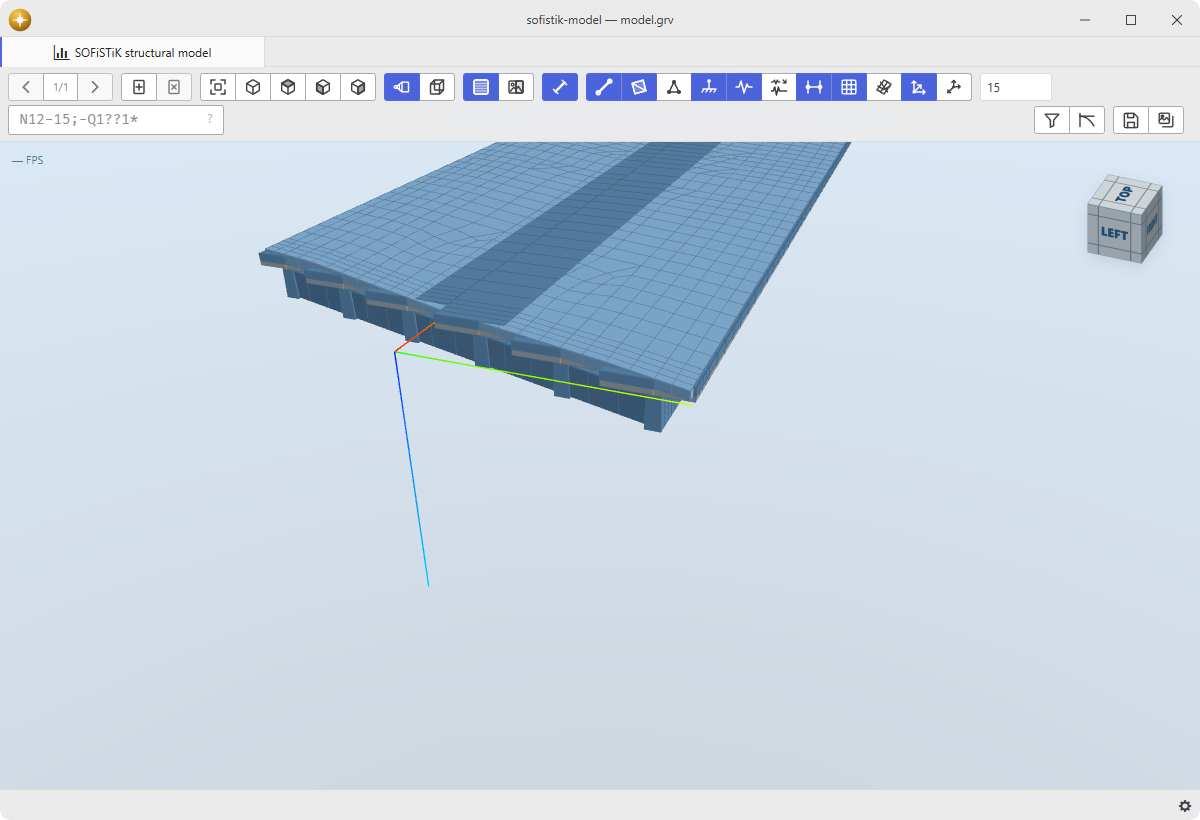
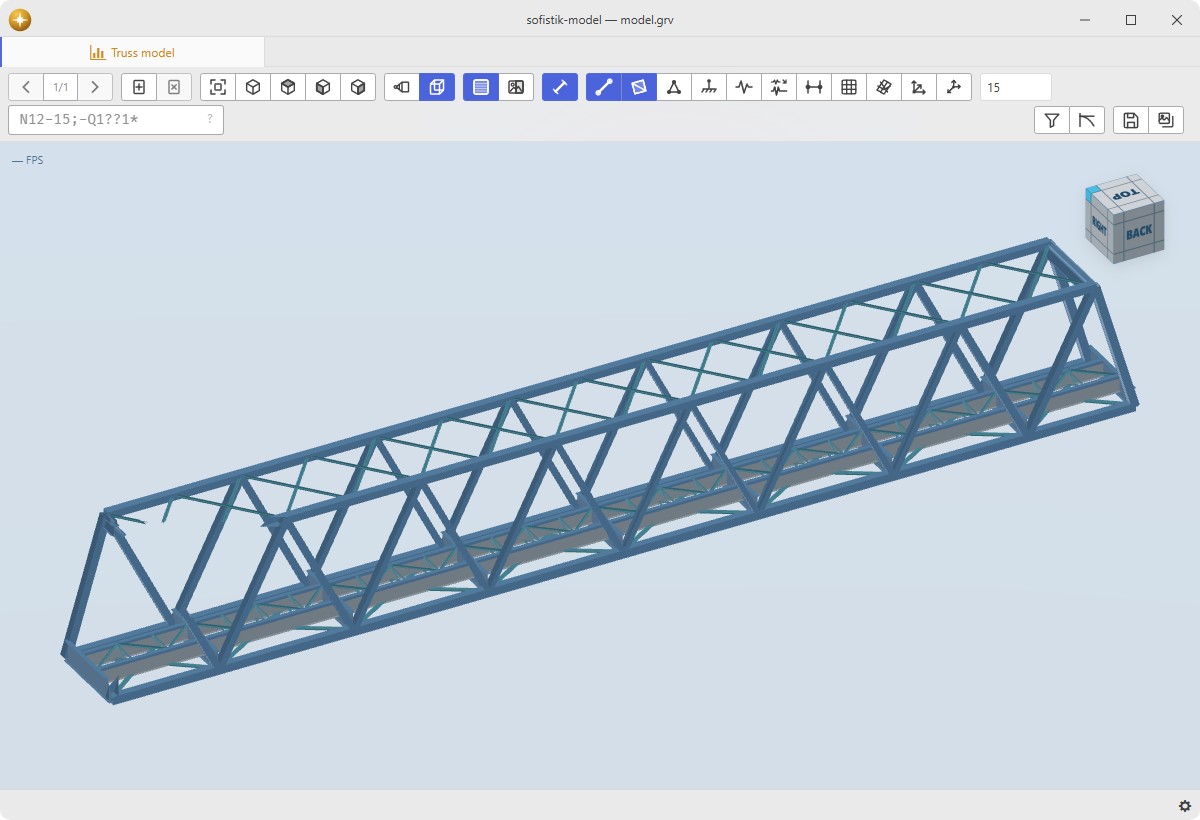
Frame the truss model in a complete orthographic overview

diff --git a/demo.js b/demo.js
@@ -10,6 +10,14 @@ module.exports = {
     if (!source)
       throw new Error("Set LUMINE_DEMO_CDB to a real SOFiSTiK CDB file approved for screenshots");
     const fs = require("node:fs");
+    const digest = require("node:crypto")
+      .createHash("sha256")
+      .update(fs.readFileSync(source))
+      .digest("hex");
[1 lines of base64/hex data omitted]
+      throw new Error(
+        "Use the reviewed truss-model CDB; see demo/sofistik-model/notes.txt for its checksum.",
+      );
     fs.copyFileSync(source, fixture("sofistik-model/model.cdb"));
     state.editor = await open("sofistik-model/notes.txt");
     await lumine.project.setPaths([fixture("sofistik-model")]);
@@ -18,7 +26,7 @@ module.exports = {
     {
       id: "scene-1",
       file: "demo.png",
-      caption: "Explore a real structural model in the Graviss viewport.",
+      caption: "Explore a truss model with section profiles in an orthographic overview.",
       timeout: 60000,
       async run(context) {
         const { lumine, state, waitFor, fixture } = context;
@@ -27,20 +35,37 @@ module.exports = {
           await lumine.workspace.paneForItem(state.editor).destroyItem(state.editor, true);
           await waitFor(
             () =>
-              Boolean(document.querySelector(".graviss canvas")) &&
+              Boolean(state.graviss.renderer && state.graviss.geometry && !state.graviss.loading) &&
               !document.body.innerText.includes("Unable to") &&
               !document.body.innerText.includes("No model"),
-            "step 1",
+            "complete structural geometry",
             60000,
           );
         }
         {
-          lumine.commands.dispatch(lumine.views.getView(state.graviss), "graviss:view-isometric");
-          lumine.commands.dispatch(lumine.views.getView(state.graviss), "graviss:fit-view");
+          const renderer = state.graviss.renderer;
+          renderer.setProjection("orthographic");
+          for (const name of [
+            "nodes",
+            "supports",
+            "springs",
+            "couplings",
+            "mesh",
+            "grid",
+            "axes",
+            "localAxes",
+          ])
+            state.graviss.setVisibility(name, false);
+          renderer.fitView(new renderer.THREE.Vector3(0.55, -1, -0.7), renderer.worldUp);
+          await state.graviss.save();
         }
       },
-      ready() {
-        return Boolean(document.querySelector(".graviss canvas"));
+      ready({ state }) {
+        return Boolean(
+          state.graviss?.renderer &&
+          !state.graviss.loading &&
+          document.querySelector(".graviss canvas"),
+        );
       },
     },
   ],

diff --git a/README.md b/README.md
@@ -14,7 +14,7 @@ Explore finite element models in an interactive engineering viewport.
 - **Model filtering**: browses actual model values with titles and element counts, creates ordered add and subtract rules over element number, element kind, and source dimensions, and combines them with a compact toolbar filter using model selector codes.
 - **Symbols and connectors**: draws axial springs as helices, transverse springs as crossed in-plane helices, rotational springs as rings, and couplings as plain links; sizes every mark with one length in millimetres and can scale springs relative to the stiffest one.
 
-![Explore a real structural model in the Graviss viewport.](.github/demo.png)
+![Explore a truss model with section profiles in an orthographic overview.](.github/demo.png)
 
 ## Installation
 
